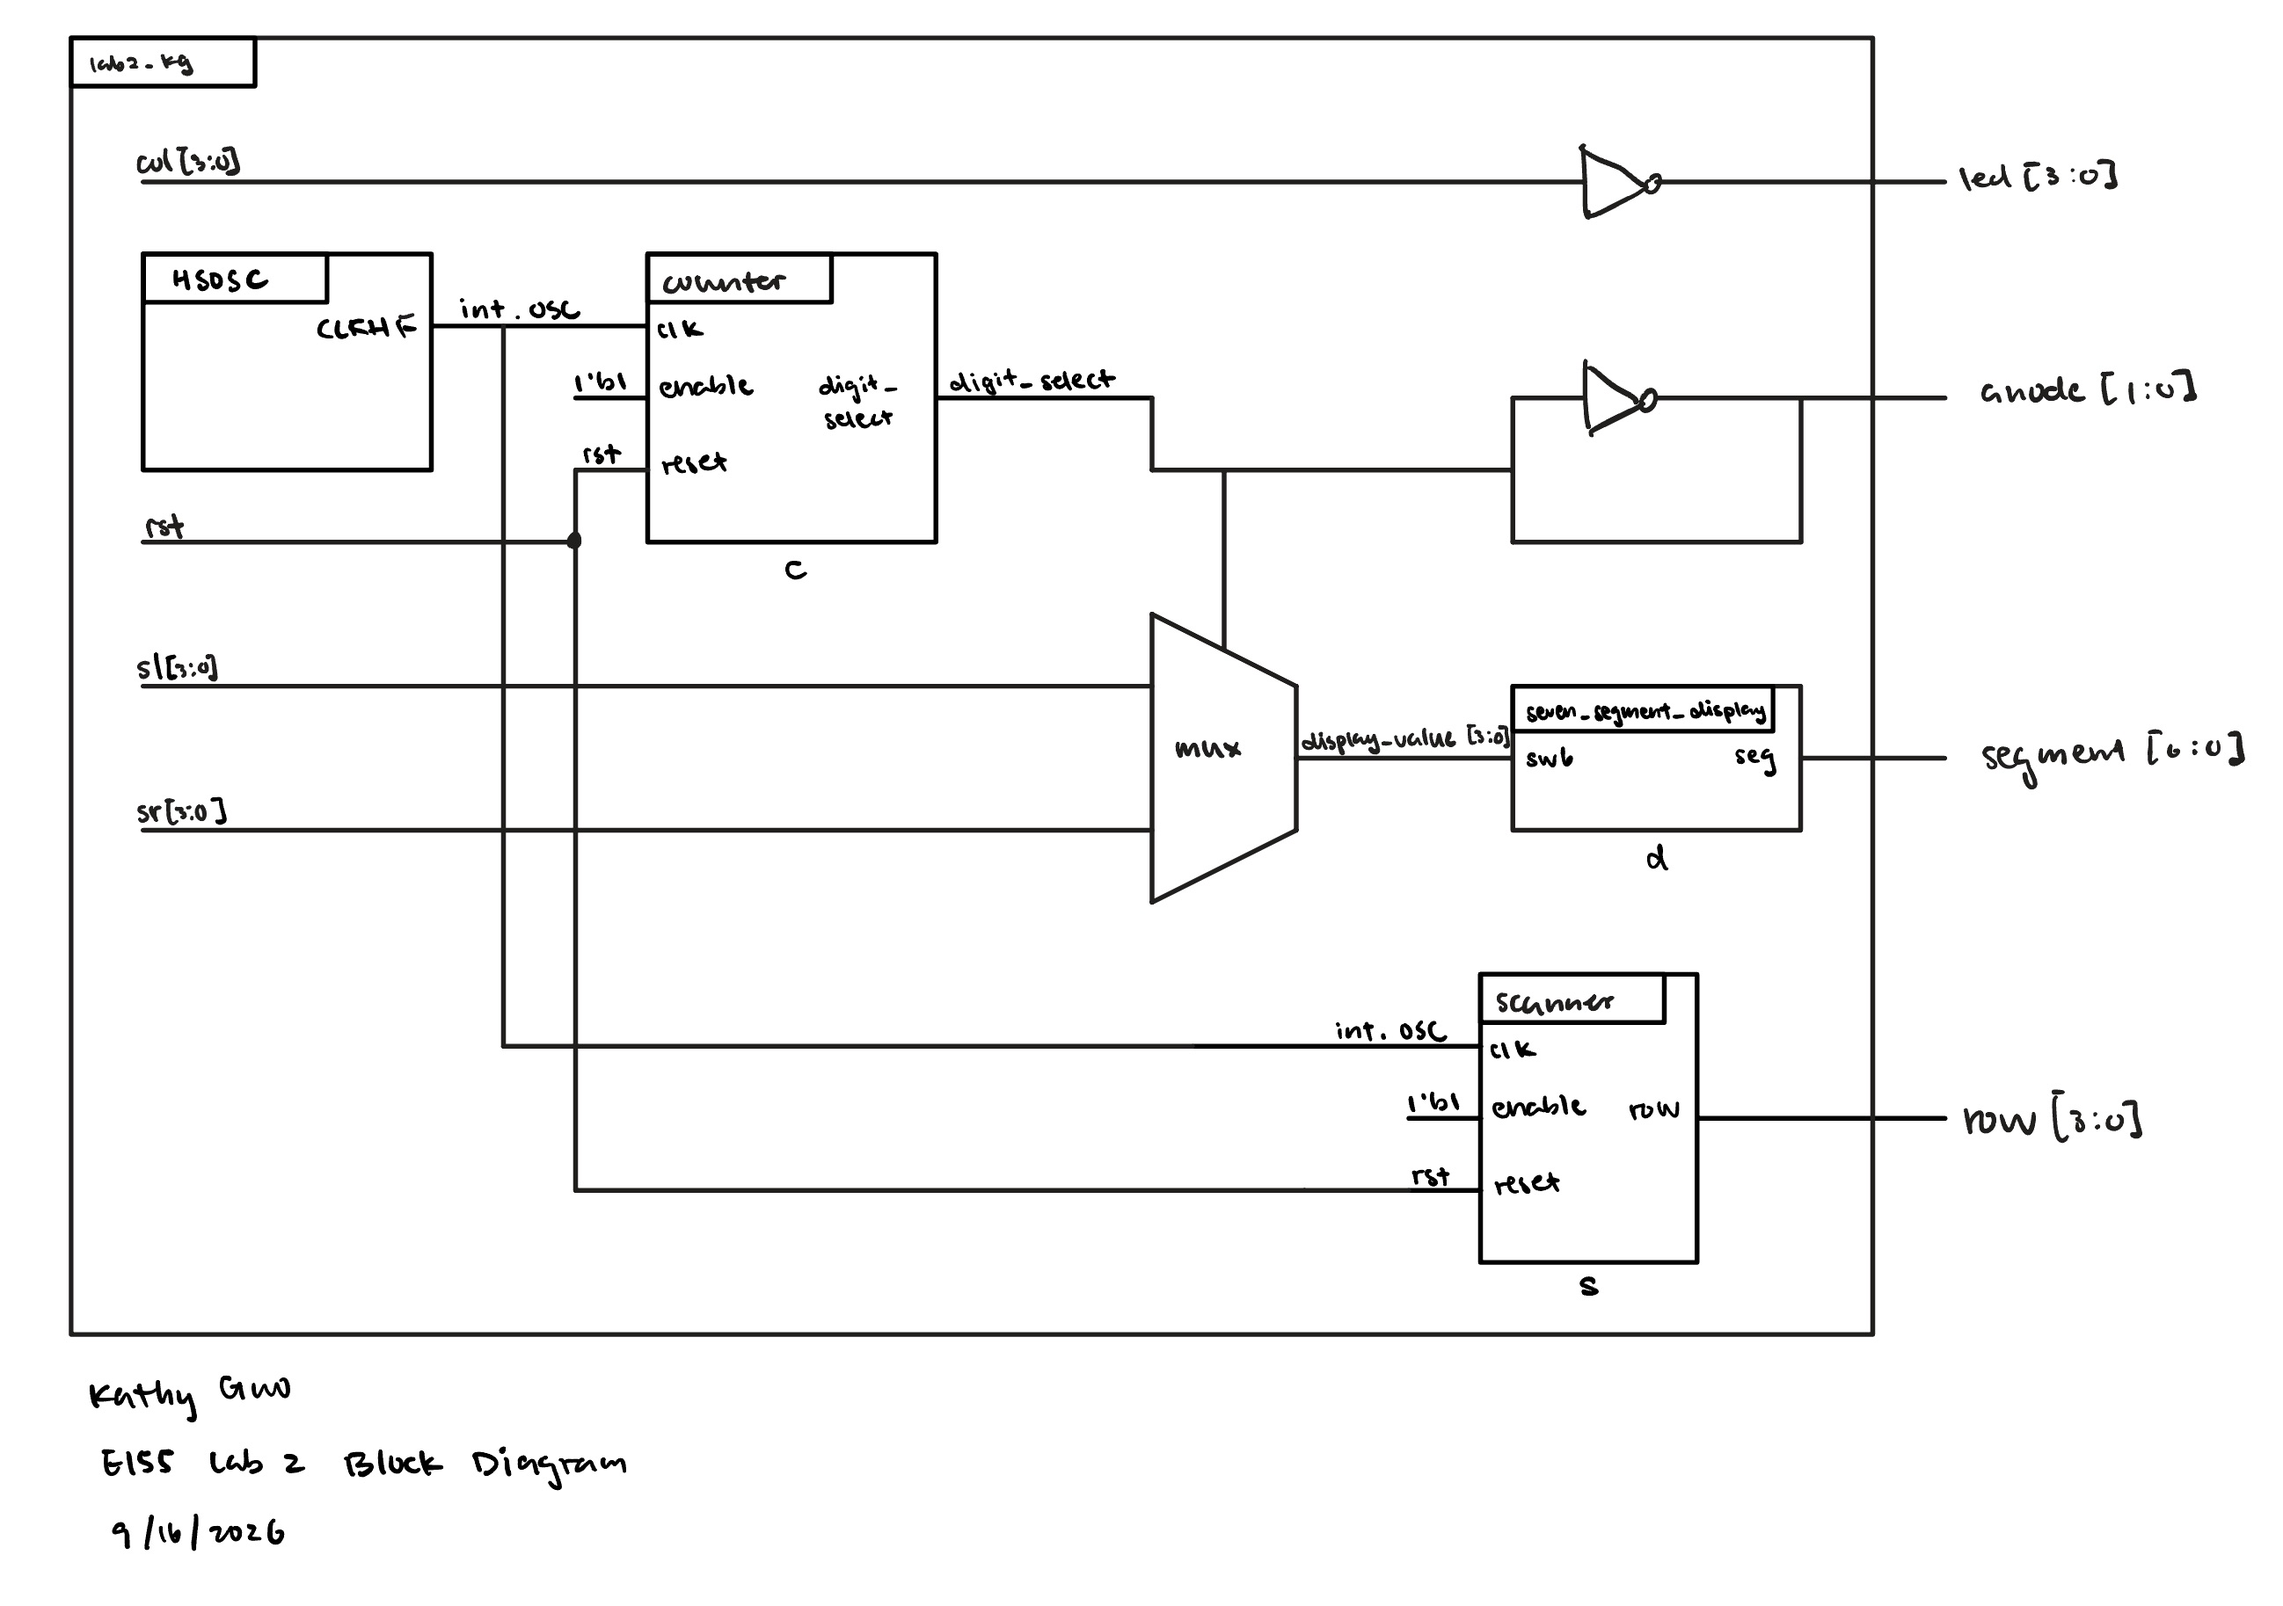
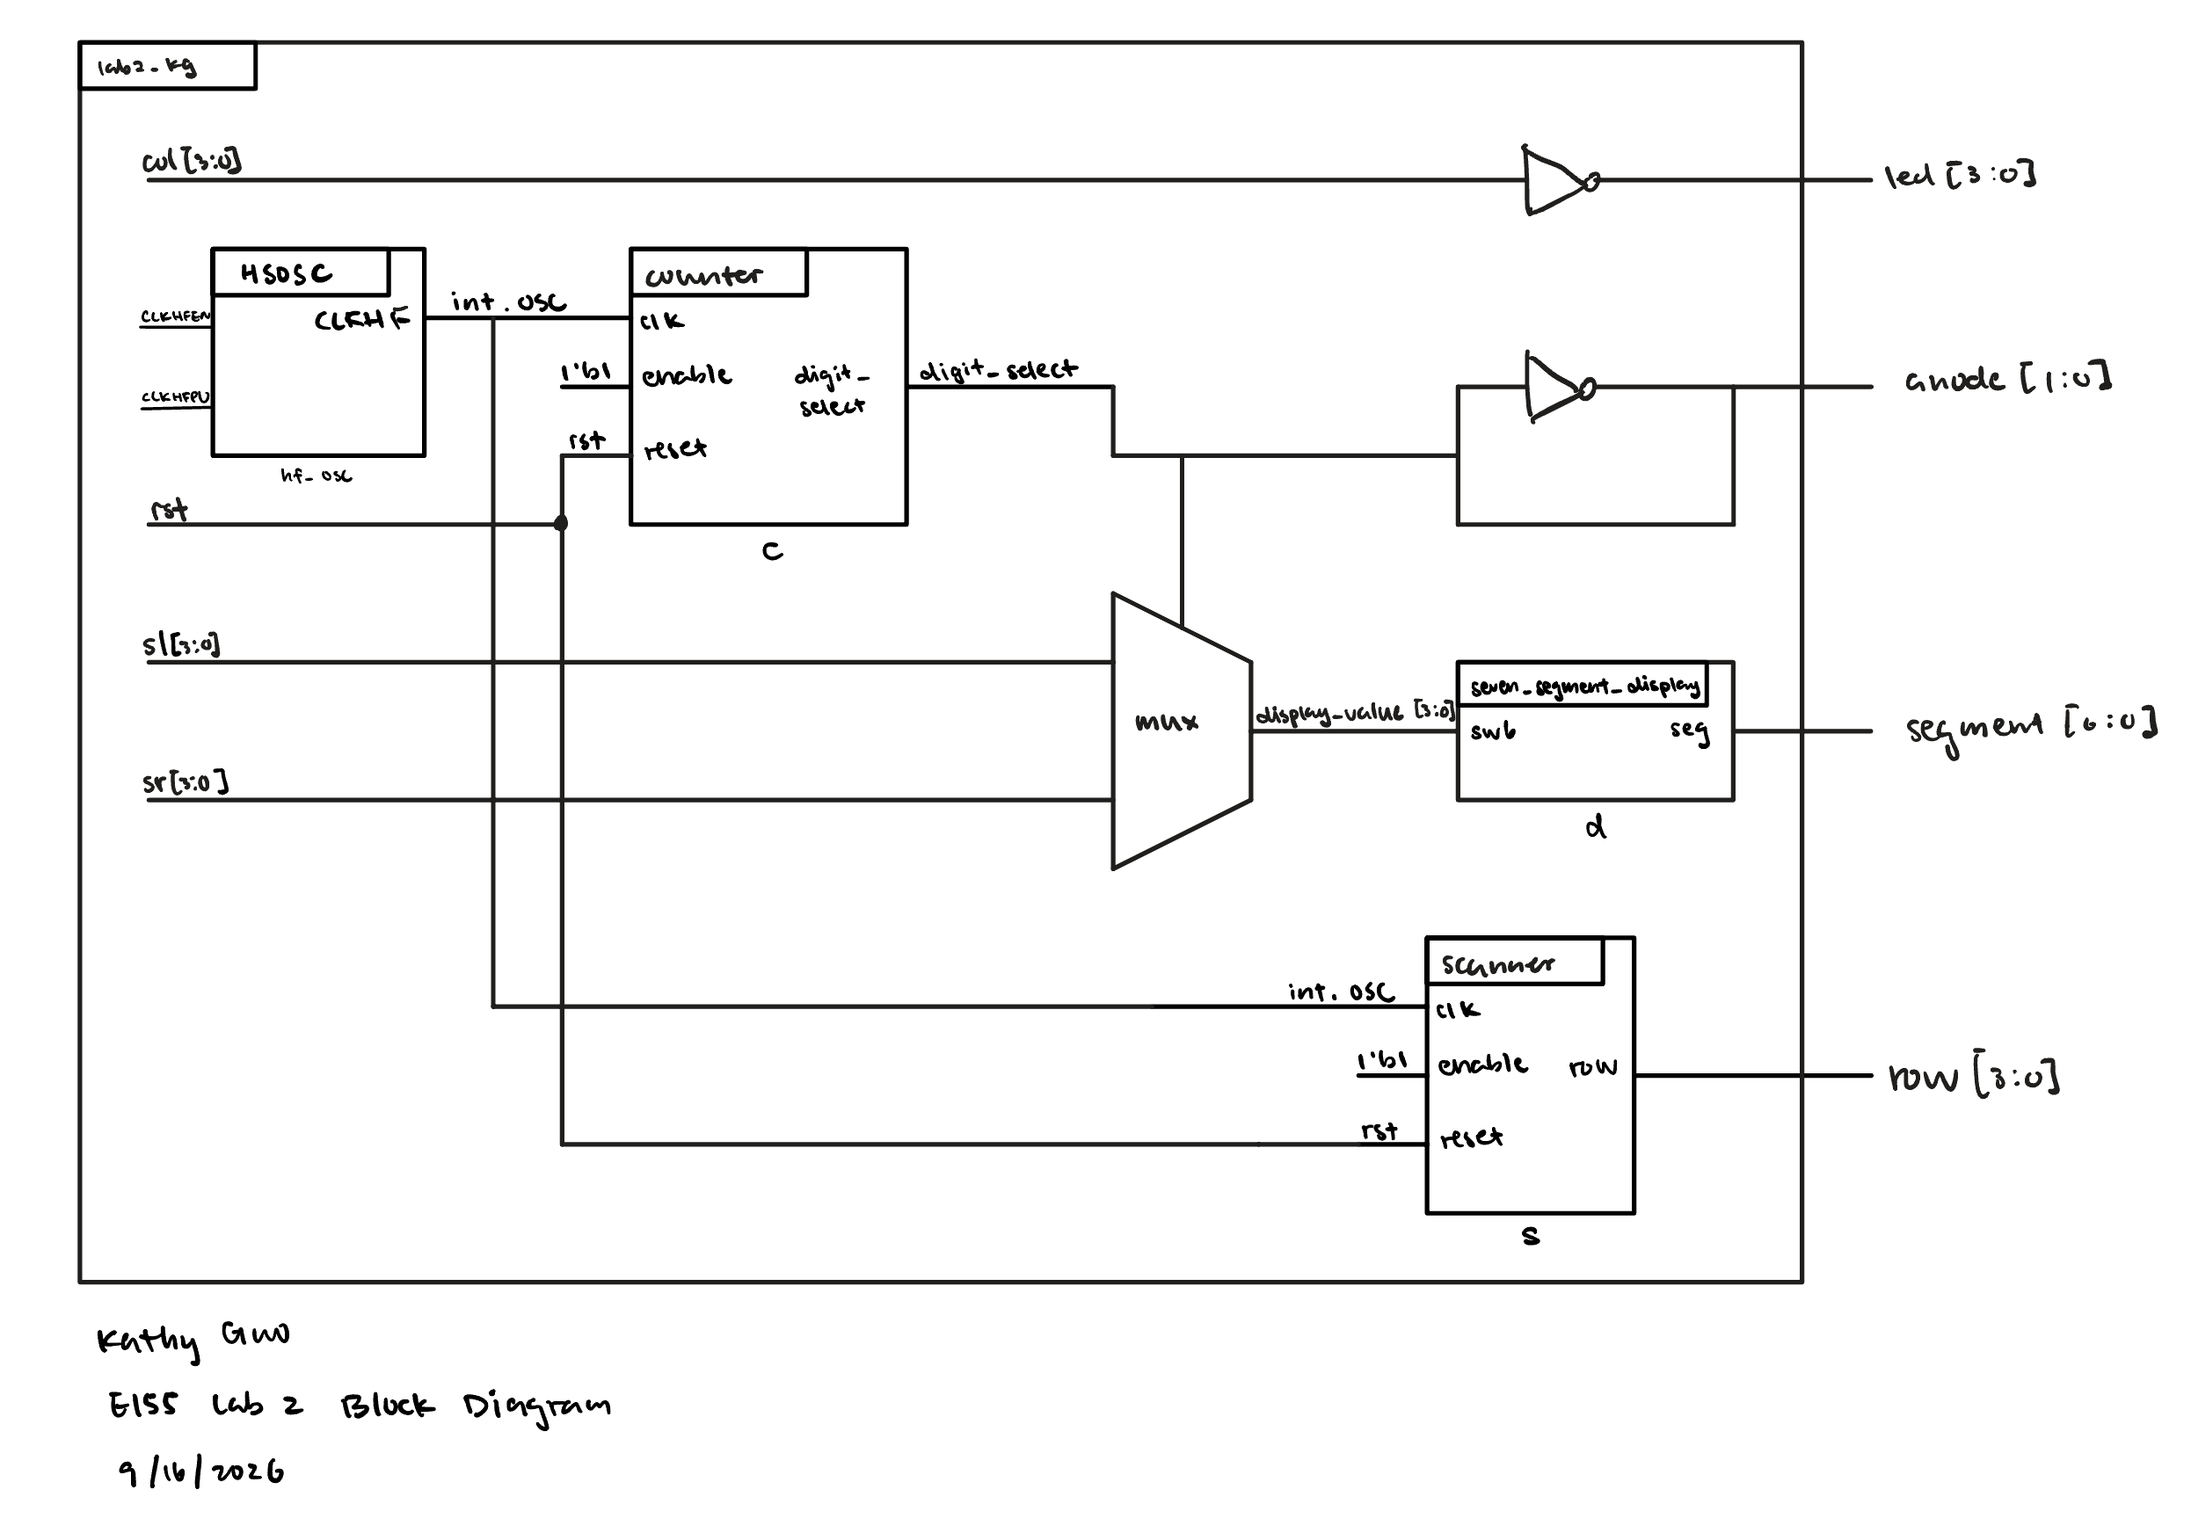
Built site for gh-pages

Changed region(s): [[0.0309, 0.0, 0.9888, 0.9954], [0.8652, 0.2177, 0.9579, 0.28]]

diff --git a/labs/lab2/lab2.html b/labs/lab2/lab2.html
@@ -220,15 +220,14 @@ window.Quarto = {
 </div>
 <div id="callout-1" class="callout-1-contents callout-collapse collapse">
 <div class="callout-body-container callout-body">
-<p><img src="lab2_images/lab2_led_sch.jpeg" class="img-fluid" alt="Figure 1: Schematic of the LED, Kathy Guo, 9/4/2026"> <img src="lab2_images/lab2_scanner_sch.jpeg" class="img-fluid" alt="Figure 2: Schematic of the Keypad, Kathy Guo, 9/4/2026"></p>
+<p><img src="lab2_images/lab2_led_sch.jpeg" class="img-fluid" alt="Figure 1: Schematic of the LED, Kathy Guo, 9/4/2026"> <img src="lab2_images/lab2_scanner.sch.jpeg" class="img-fluid" alt="Figure 2: Schematic of the Keypad, Kathy Guo, 9/4/2026"></p>
 </div>
 </div>
 </div>
 <section id="resistor-calculations" class="level4">
 <h4 class="anchored" data-anchor-id="resistor-calculations">Resistor Calculations</h4>
-<p>LED resistor: <span class="math display">\[R_{LED} = \frac{3.3V-2.0V}{100Ω} = 13mA\]</span></p>
 <p>LED transistor resistor:</p>
-<p>The I_OL of the LVCMOS 3.3 is 8 mA, hence, for 7 pins, the collector current, I_C, is 56 mA. According to the 2N3906 datasheet, the I_B of the transistor is I_C/10, which, in this case, is 0.0056 A. The V_BE of the transistor is typically 0.7 V. Therefore, the resistor value can be calculated as follows: <span class="math display">\[R_{LED\:transistor} = \frac{3.3V-0.7V}{0.0056A} \approx 470Ω\]</span></p>
+<p>The I_OL of the LVCMOS 3.3 is 8 mA.. According to the 2N3906 datasheet, the I_B of the transistor is I_C/10, which, in this case, is 0.0056 A. The V_BE of the transistor is typically 0.7 V. Therefore, the resistor value can be calculated as follows: <span class="math display">\[R_{LED\:transistor} = \frac{3.3V-0.4V-0.7V}{0.0056A} \approx 470Ω\]</span></p>
 <p>Keypad transistor resistor:</p>
 <p>According to the 2N3904 datasheet, the I_B of the transistor is I_C/10, where I_C is 0.02 A. The V_BE of the transistor is typically 0.7 V. Therefore, the resistor value can be calculated as follows: <span class="math display">\[R_{keypad\:transistor} = \frac{3.3V-0.7V}{0.002A} \approx 1000Ω\]</span></p>
 </section>
@@ -253,10 +252,10 @@ window.Quarto = {
 <figcaption>Figure 3: Block Diagram of the Verilog Design, Kathy Guo, 9/4/2026</figcaption>
 </figure>
 </div>
-<p>Figure 2 shows the block diagram of the design. The top-level module <code>lab2_kg</code> includes the high-speed oscillator block (<code>HSOSC</code>), <code>counter</code> for time-multiplexging, <code>blinker</code> for scannign the keypad, and the seven-segment display module(<code>seven_segment_display</code>).</p>
 </div>
 </div>
 </div>
+<p>Figure 2 shows the block diagram of the design. The top-level module <code>lab2_kg</code> includes the high-speed oscillator block (<code>HSOSC</code>), <code>counter</code> for time-multiplexging, <code>blinker</code> for scannign the keypad, and the seven-segment display module(<code>seven_segment_display</code>). :::</p>
 <section id="frequency-calculations" class="level4">
 <h4 class="anchored" data-anchor-id="frequency-calculations">Frequency Calculations</h4>
 <p>Given the frequency generated by the osciloscope is 24 MHz, the clock divider module was designed to divide the frequency down to 2.4 Hz. The following calculations were performed to determine the number of clock cycles, N, required for the desired frequency: <span class="math display">\[f_{out} = \frac{f_{in}}{N}\]</span> <span class="math display">\[2.4 Hz = \frac{24 MHz}{N}\]</span> <span class="math display">\[N = \frac{24 MHz}{2.4 Hz} = 10^7\]</span></p>
